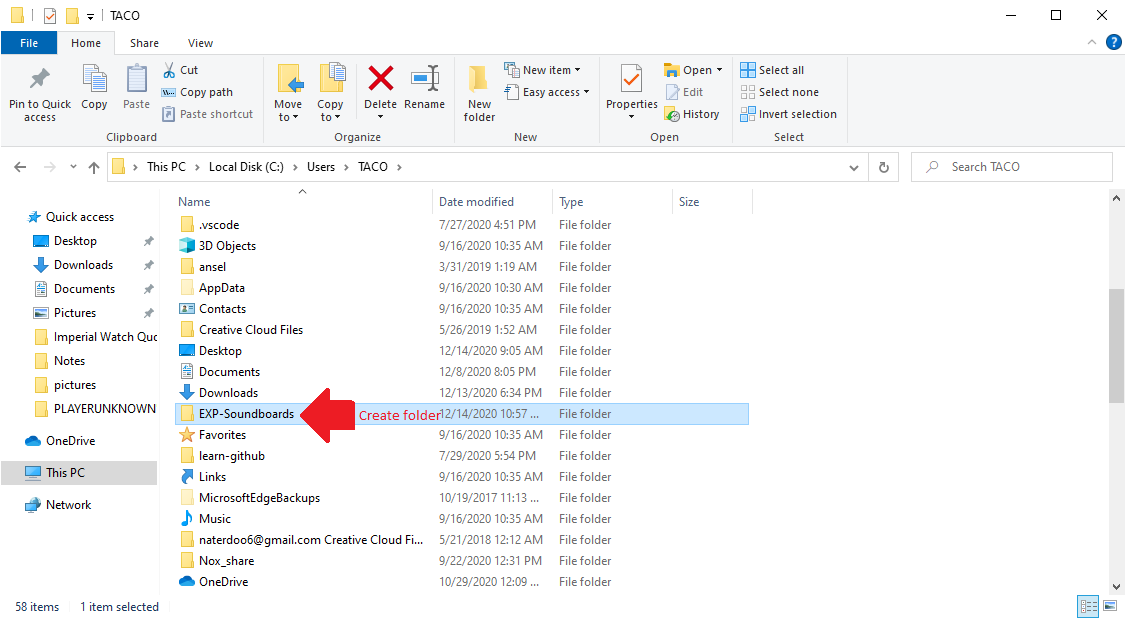
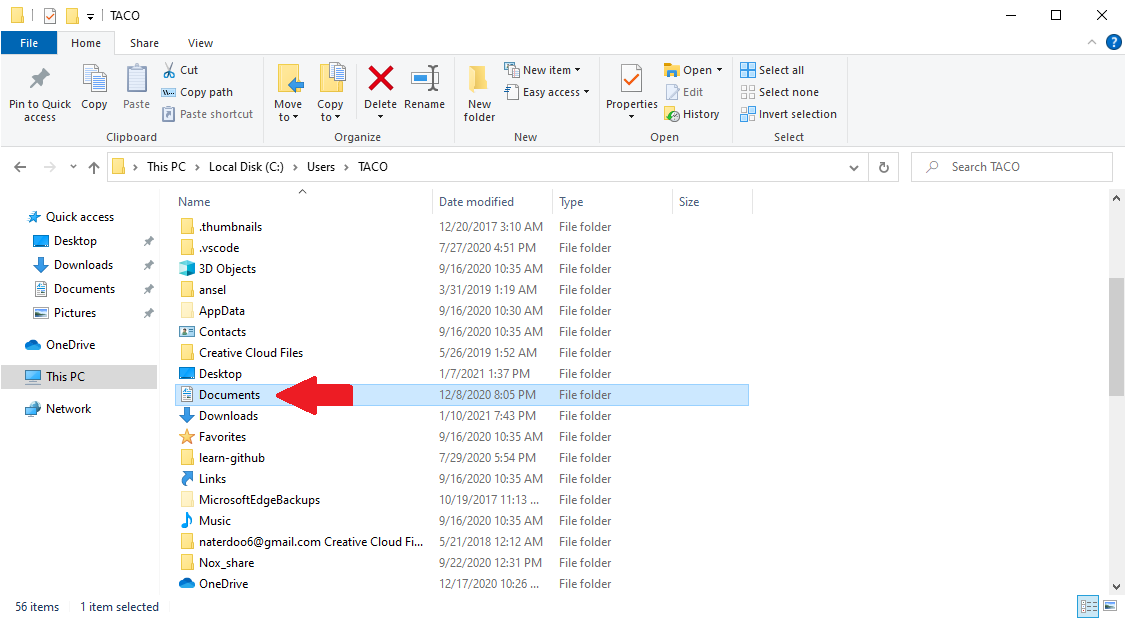
Add More Instructions

Changed region(s): [[0.0, 0.3376, 0.6838, 0.9515], [0.9636, 0.4297, 1.0, 0.4911], [0.9947, 0.6139, 1.0, 0.6753]]

diff --git a/src/Home/Home.js b/src/Home/Home.js
@@ -55,8 +55,8 @@ class Home extends Component {
                         EXP soundboard is a soundboard program that lets you create soundboards for the EXP soundboard program.
                         It's useful with a virtual audio cable to play sounds into a video game, voice chat application or some other medium.
                         This app lets you browse user created soundboards and create soundboards for use in the EXP soundboard program
-                    </p>
-                    <p>(Insert picture of EXP soundboard app)</p>
+                    </p><br/>
+                    <img className="exp" src="pictures/EXP.png" alt="EXP Soundboard App" /><br />
                 </section>
                 <section className="how center">
                     <h3>Browse</h3>
@@ -64,42 +64,72 @@ class Home extends Component {
                         Browse our current selection of soundboards or user created soundboards.
                         You can select a soundboard and download it or you can edit it to your own preference.
                         Currently there are no actual sounds implemented.
-                    </p>
-                    <p>(Insert picture of browsing)</p>
+                    </p><br/>
+                    <img src="pictures/Browse.png" alt="Browse Page" /><br />
                 </section>
                 <section className="how center">
                     <h3>Create</h3>
                     <p>
                         This is a step by step process for creating a soundboard. <br />
                         See the video if you want to fully set up EXP Soundboard <br />
-                        To test out the program all you need is the EXP Soundboard Download
+                        If you just want to test out this application, all you need is the EXP Soundboard Download
                     </p>
                     <a href="https://youtu.be/NYGuEY0WdSw" target="_blank">Video</a>
                     <br />
-                    <a href="https://sourceforge.net/projects/expsoundboard/" target="_blank">EXP Soundboard Download</a>
+                    <a href="https://sourceforge.net/projects/expsoundboard/" target="_blank">EXP Soundboard Download</a> (recommended for testing my app)
                 </section>
                 <section className="how center">
                     <p>
                         First thing you have to do is set up a folder for your soundboards and sound files<br />
                         This part is not completely user friendly yet so you will need to follow a few steps.<br />
-                        I suggest using your documents to save your soundboards<br /><br />
+                        I suggest using your documents to save your soundboards.<br /><br />
+                        While following these steps, open the create tab in another window. (right click and open link in new tab) <br/><br/>
+
                         1. Navigate to your main drive and go to users and find your user name.<br /><br />
                         <img src="pictures/4.1.png" alt="Title and Sounds 1" /><br />
                         <img src="pictures/4.2.png" alt="Title and Sounds 2" /><br />
                         <img src="pictures/4.3.png" alt="Title and Sounds 3" /><br /><br />
+
                         2. Create a folder in your documents for your soundboards. (I called mine EXP-Soundboards)<br /><br />
-                        <img src="pictures/4.4.png" alt="Create Soundboard Directory" /><br /><br />
+                        <img src="pictures/4.4.png" alt="Create Soundboard Directory 1" /><br /><br />
+                        <img src="pictures/4.45.png" alt="Create Soundboard Directory 2" /><br /><br />
+
                         3. Create a folder inside EXP-Soundboards with your soundboard name.<br /><br />
                         <img src="pictures/4.5.png" alt="Create Soundboard Folder" /><br /><br />
+
                         4. Download sound files from somewhere(freesound.org for example) and place them inside that folder.<br /><br />
                         <img src="pictures/4.6.png" alt="Add Files" /><br /><br />
+
                         5. Create a new Soundboard in the app.<br /><br />
                         <img src="/pictures/1.png" alt="New Soundboard Step 1-1" /><br /><br/>
+
                         6. Type in a title and add sounds.<br/><br/>
                         <img src="pictures/3.png" alt="Title and Sounds" /><br/><br/>
-                        7. In the app, write down your file path as shown in the picture.<br />
-                        For example, if my user name is "Nathan", soundboard is "The Word", and my sound is "bird.mp3", <br />I would write "C:\Users\Nathan\Documents\EXP-Soundboards\The Word\bird.mp3"
-                        To streamline the process from there, every time you add a new sound, just copy the whole string and replace the last sound name (bird.mp3) with another sound.
+
+                        (This is the most user unfriendly portion that is still being worked on so bear with this section<br/>
+                        I still need to key reading for activation keys, easier file path changing, and the ability to move around sounds)<br/><br/>
+
+                        7. Write down your file path as shown in the picture. <br/>
+                        You could make your file path anywhere but this example will show you how to put your soundboard in your documents<br />
+                        For this example, if my user name is "TACO", soundboard is "The Word", and my sound is "bird.mp3", <br />I would write "C:\Users\Nathan\Documents\EXP-Soundboards\The Word\bird.mp3"<br/>
+                        To streamline the process from there, every time you add a new sound, just copy the whole string and replace the last sound name (bird.mp3) with another sound.<br/><br/>
+                        Then type in the numbers for the activation keys you want. Clink on the link for the javascript character codes page for the numbers you can use.<br/>
+                        If you wanted to use the letter "a" for a sound activation, you would write "65" in the box. <br/>
+                        A comma indicates that you will need to press down multiple keys. In the picture below, "17,96" means "Ctrl Numpad 3"<br/>
+                        I would suggest using the numpad numbers for your soundboard as they aren't really used for many things<br/><br/>
+                        <img src="pictures/4.0.png" alt="File Path" /><br/><br/>
+
+                        8. Download the json file from the create page and put it into your soundboard folder with all your sound files in it. <br/><br/>
+                        <img src="pictures/6.png" alt="Download from Create" /><br/><br/>
+                        <img src="pictures/5.png" alt="Soundboard Folder" /><br/><br/>
+
+                        9. Now open up your soundboard using the EXP Soundboard application<br/><br/>
+                        <img className="exp" src="pictures/7.1.png" alt="Open in Application 1" /><br/><br/>
+                        <img className="exp" src="pictures/7.2.png" alt="Open in Application 2" /><br/><br/>
+                        <img className="exp" src="pictures/7.3.png" alt="Open in Application 3" /><br/><br/>
+
+                        Now you're ready to play your soundboard! If it didn't work, be sure that your file path is correct, you have the right keys assigned, and have your sound files spelled properly.<br/>
+                        Once again, this isn't very user friendly yet but this does work to at least make and share a soundboard with other users. I also still need to add a soundboard uploader as well.
                     </p>
                 </section>
             </>

diff --git a/src/App.css b/src/App.css
@@ -32,6 +32,11 @@
 
   img {
     width: 50%;
+    border: 3px solid #000000
+  }
+
+  .exp {
+    width: 25%;
   }
   
   .how {
